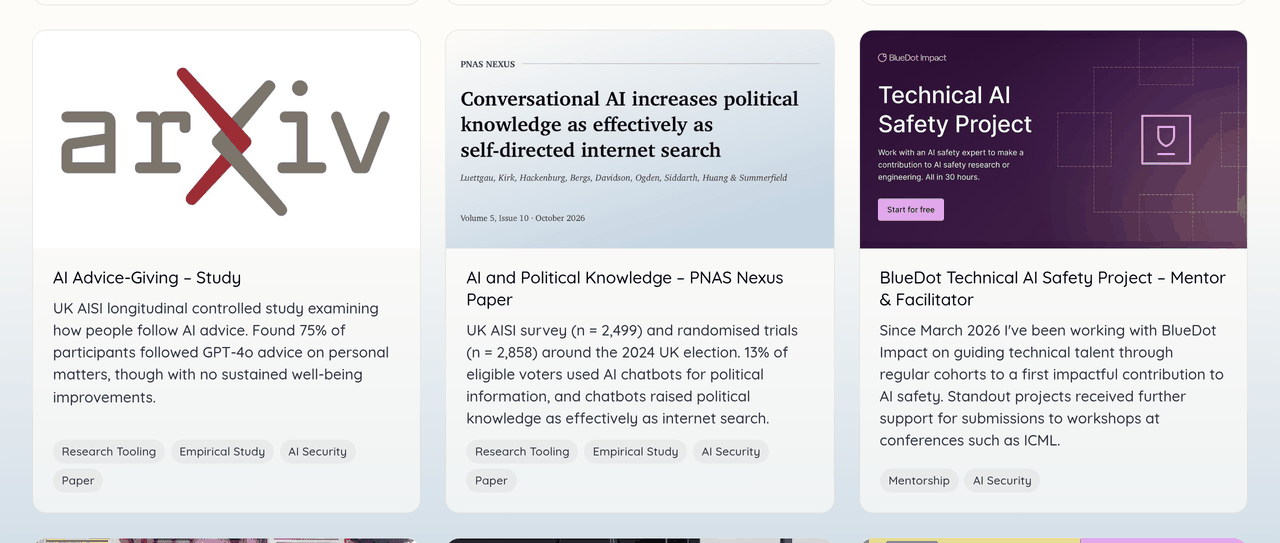
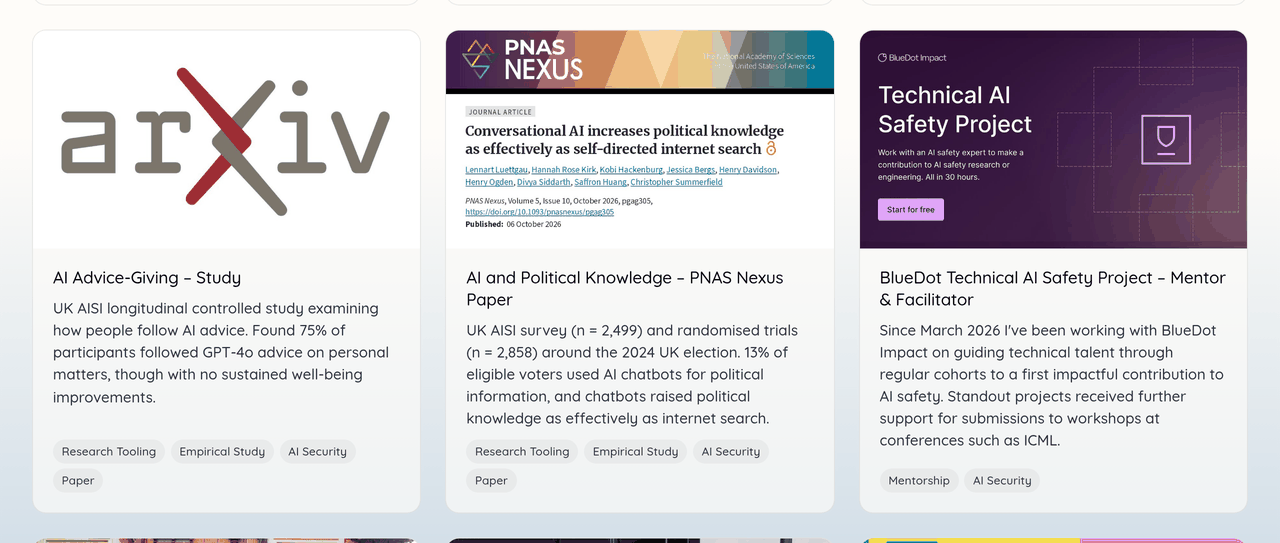
content: restyle the PNAS Nexus tile after the journal's article page (#61)
The title card used the portfolio's own palette and Charter face. It now
mirrors the paper's page on Oxford Academic: the journal banner and logo,
the black navigation strip, then the JOURNAL ARTICLE label, Merriweather
title with the open-access mark, linked author names, citation, DOI and
publication date in Source Sans. The card is 1200x675 so the 16:9 tile
frame no longer crops it.

Changed region(s): [[0.3438, 0.0295, 0.6562, 0.4715], [0.6562, 0.9724, 0.9688, 1.0], [0.0312, 0.9724, 0.2812, 1.0]]

diff --git a/docs/assets/pnas-nexus-tile/make_tile.py b/docs/assets/pnas-nexus-tile/make_tile.py
@@ -1,85 +1,169 @@
 #!/usr/bin/env python3
 """Build the tile for the PNAS Nexus political knowledge paper.
 
-A typographic title card in the site's own palette and Charter face (the
-gradient runs between --color-bg-top and --color-bg-bottom from src/index.css).
-It replaces the generic arXiv logo the tile used while the paper was a preprint.
+The card mimics the paper's page on Oxford Academic: the journal's banner and
+logo across the top, a black navigation strip, then the article header on white
+(JOURNAL ARTICLE label, Merriweather title with the open-access mark, linked
+author names in Source Sans, citation line).
 
-Usage (needs Pillow; FreeType reads the site's woff2 files directly):
+Inputs in this folder, taken from the journal site's header (2026-10-06):
+    pnasnexus-logo.png            journal logo, white wordmark on transparent
+    pnasnexus-banner.png          banner gradient with the triangle facets
+    pnasnexus-banner-overlay.png  slanted panel at the banner's right edge
+
+Merriweather and Source Sans 3 (both SIL OFL) are downloaded from google/fonts
+on first run into ~/.cache/jbergs-portfolio-fonts.
+
+Usage (needs Pillow):
     uv run --no-project --with pillow python docs/assets/pnas-nexus-tile/make_tile.py
 """
+import urllib.request
 from pathlib import Path
 
 from PIL import Image, ImageDraw, ImageFont
 
-ROOT = Path(__file__).resolve().parents[3]
-FONTS = ROOT / 'public' / 'fonts' / 'charter'
+HERE = Path(__file__).resolve().parent
+ROOT = HERE.parents[2]
 OUT = ROOT / 'public' / 'images' / 'pnas-nexus-political-knowledge.jpg'
+FONT_CACHE = Path.home() / '.cache' / 'jbergs-portfolio-fonts'
+FONT_URLS = {
+    'merriweather': 'https://github.com/google/fonts/raw/main/ofl/merriweather/Merriweather%5Bopsz,wdth,wght%5D.ttf',
+    'sourcesans': 'https://github.com/google/fonts/raw/main/ofl/sourcesans3/SourceSans3%5Bwght%5D.ttf',
+    'sourcesans-italic': 'https://github.com/google/fonts/raw/main/ofl/sourcesans3/SourceSans3-Italic%5Bwght%5D.ttf',
+}
 
-W, H = 1200, 630
-PAD = 80
-BG_TOP = (0xFE, 0xFC, 0xF9)
-BG_BOTTOM = (0xC6, 0xD6, 0xE3)
-INK = (0x0A, 0x0A, 0x0A)
-INK_SOFT = (0x2C, 0x31, 0x40)
-INK_MUTE = (0x6B, 0x71, 0x84)
+W, H = 1200, 675   # the tile frame is 16:9, so nothing is cropped
+PAD = 60
+BANNER_H = 180
+NAV_H = 16
+
+INK = (0x2A, 0x2A, 0x2A)
+LINK = (0x00, 0x6F, 0xB7)
+CHIP_BG = (0xE4, 0xE4, 0xE4)
+OPEN_ACCESS = (0xF6, 0x82, 0x12)
 
 TITLE = 'Conversational AI increases political knowledge as effectively as self-directed internet search'
-AUTHORS = 'Luettgau, Kirk, Hackenburg, Bergs, Davidson, Ogden, Siddarth, Huang & Summerfield'
-KICKER = 'PNAS NEXUS'
-FOOTER = 'Volume 5, Issue 10 · October 2026'
+AUTHORS = ['Lennart Luettgau', 'Hannah Rose Kirk', 'Kobi Hackenburg', 'Jessica Bergs', 'Henry Davidson',
+           'Henry Ogden', 'Divya Siddarth', 'Saffron Huang', 'Christopher Summerfield']
+JOURNAL = 'PNAS Nexus'
+CITATION = ', Volume 5, Issue 10, October 2026, pgag305,'
+DOI = 'https://doi.org/10.1093/pnasnexus/pgag305'
+PUBLISHED = '06 October 2026'
 
 
-def font(name: str, size: int) -> ImageFont.FreeTypeFont:
-    return ImageFont.truetype(str(FONTS / f'charter_{name}.woff2'), size)
+def font(name: str, size: int, weight: int, opsz: int | None = None) -> ImageFont.FreeTypeFont:
+    path = FONT_CACHE / f'{name}.ttf'
+    if not path.exists():
+        FONT_CACHE.mkdir(parents=True, exist_ok=True)
+        urllib.request.urlretrieve(FONT_URLS[name], path)
+    f = ImageFont.truetype(str(path), size)
+    axes = {b'Weight': weight, b'Optical size': opsz or size, b'Width': 100}
+    f.set_variation_by_axes([axes[a['name']] for a in f.get_variation_axes()])
+    return f
 
 
-def wrap(draw: ImageDraw.ImageDraw, text: str, f: ImageFont.FreeTypeFont, width: int) -> list[str]:
-    lines, line = [], ''
-    for word in text.split():
-        trial = f'{line} {word}'.strip()
-        if draw.textlength(trial, font=f) <= width:
-            line = trial
-        else:
+def wrap(draw: ImageDraw.ImageDraw, words: list[str], f: ImageFont.FreeTypeFont, width: int, sep: str = ' ') -> list[list[str]]:
+    lines, line = [], []
+    for word in words:
+        if line and draw.textlength(sep.join(line + [word]), font=f) > width:
             lines.append(line)
-            line = word
+            line = []
+        line.append(word)
     lines.append(line)
     return lines
 
 
+def banner(img: Image.Image, draw: ImageDraw.ImageDraw) -> None:
+    art = Image.open(HERE / 'pnasnexus-banner.png').convert('RGBA')
+    sx, sy = W / art.width, BANNER_H / art.height   # the overlay gets the same stretch as the banner
+    art = art.resize((W, BANNER_H), Image.LANCZOS)
+    img.paste(art, (0, 0), art)
+    overlay = Image.open(HERE / 'pnasnexus-banner-overlay.png').convert('RGBA')
+    overlay = overlay.resize((round(overlay.width * sx), round(overlay.height * sy)), Image.LANCZOS)
+    img.paste(overlay, (W - overlay.width, 0), overlay)
+
+    logo = Image.open(HERE / 'pnasnexus-logo.png').convert('RGBA')
+    logo_h = 124
+    logo = logo.resize((round(logo.width * logo_h / logo.height), logo_h), Image.LANCZOS)
+    img.paste(logo, (PAD - 10, (BANNER_H - logo_h) // 2), logo)
+
+    nas = font('sourcesans', 25, 300)
+    for i, line in enumerate(['The National Academy of Sciences', 'of the United States of America']):
+        draw.text((W - PAD - draw.textlength(line, font=nas), 62 + i * 30), line, font=nas, fill='white')
+
+    draw.rectangle([0, BANNER_H, W, BANNER_H + NAV_H], fill='black')
+
+
+def open_access_mark(draw: ImageDraw.ImageDraw, x: float, y: float, size: int) -> None:
+    """The orange open padlock that follows open-access titles."""
+    stroke = max(3, size // 9)
+    body_r = size * 0.32
+    cx, cy = x + size * 0.36, y + size * 0.66
+    draw.ellipse([cx - body_r, cy - body_r, cx + body_r, cy + body_r], outline=OPEN_ACCESS, width=stroke)
+    draw.ellipse([cx - stroke * 0.7, cy - stroke * 0.7, cx + stroke * 0.7, cy + stroke * 0.7], fill=OPEN_ACCESS)
+    # Shackle: an arch opening upward from the right of the body, swung open.
+    sw = size * 0.44
+    top = y + size * 0.02
+    draw.arc([cx - sw / 2, top, cx + sw / 2, top + sw], 180, 360, fill=OPEN_ACCESS, width=stroke)
+    draw.line([(cx + sw / 2 - stroke / 2, top + sw / 2), (cx + sw / 2 - stroke / 2, cy - body_r + 2)], fill=OPEN_ACCESS, width=stroke)
+
+
 def main() -> None:
-    img = Image.new('RGB', (W, H))
+    img = Image.new('RGB', (W, H), 'white')
     draw = ImageDraw.Draw(img)
+    banner(img, draw)
 
-    # Diagonal gradient, warm paper top left to the site's pale blue bottom right.
-    for y in range(H):
-        for x in range(0, W, 4):
-            t = min(1.0, max(0.0, (x / W) * 0.45 + (y / H) * 0.75))
-            c = tuple(round(a + (b - a) * t) for a, b in zip(BG_TOP, BG_BOTTOM))
-            draw.line([(x, y), (x + 3, y)], fill=c)
+    y = BANNER_H + NAV_H + 38
+    chip = font('sourcesans', 21, 400)
+    label = 'JOURNAL ARTICLE'
+    tracking = 2.2
+    label_w = sum(draw.textlength(c, font=chip) + tracking for c in label) - tracking
+    draw.rectangle([PAD, y, PAD + label_w + 22, y + 32], fill=CHIP_BG)
+    cx = PAD + 11
+    for c in label:
+        draw.text((cx, y + 4), c, font=chip, fill=INK)
+        cx += draw.textlength(c, font=chip) + tracking
 
-    kicker = font('bold', 26)
-    draw.text((PAD, PAD), KICKER, font=kicker, fill=INK_SOFT)
-    kicker_w = draw.textlength(KICKER, font=kicker)
-    draw.line([(PAD + kicker_w + 24, PAD + 15), (W - PAD, PAD + 15)], fill=INK_MUTE, width=1)
+    title = font('merriweather', 42, 700, opsz=24)
+    y += 50
+    lines = wrap(draw, TITLE.split(), title, W - 2 * PAD - 40)
+    for line in lines:
+        draw.text((PAD, y), ' '.join(line), font=title, fill=INK)
+        last_w = draw.textlength(' '.join(line), font=title)
+        y += 56
+    open_access_mark(draw, PAD + last_w + 14, y - 56 + 2, 44)
 
-    title = font('bold', 58)
-    y = PAD + 80
-    for line in wrap(draw, TITLE, title, W - 2 * PAD):
-        draw.text((PAD, y), line, font=title, fill=INK)
-        y += 74
+    authors = font('sourcesans', 27, 400)
+    y += 16
+    names = [n + (',' if i < len(AUTHORS) - 1 else '') for i, n in enumerate(AUTHORS)]
+    for line in wrap(draw, names, authors, W - 2 * PAD):
+        x = PAD
+        for word in line:
+            name = word.rstrip(',')
+            w = draw.textlength(name, font=authors)
+            draw.text((x, y), name, font=authors, fill=LINK)
+            draw.line([(x, y + 31), (x + w, y + 31)], fill=LINK, width=2)
+            x += w
+            if word.endswith(','):
+                draw.text((x, y), ',', font=authors, fill=INK)
+                x += draw.textlength(', ', font=authors)
+        y += 38
 
-    authors = font('italic', 26)
-    y += 26
-    for line in wrap(draw, AUTHORS, authors, W - 2 * PAD):
-        draw.text((PAD, y), line, font=authors, fill=INK_SOFT)
-        y += 36
-
-    footer = font('regular', 24)
-    draw.text((PAD, H - PAD - 24), FOOTER, font=footer, fill=INK_SOFT)
+    y += 22
+    italic = font('sourcesans-italic', 25, 400)
+    regular = font('sourcesans', 25, 400)
+    draw.text((PAD, y), JOURNAL, font=italic, fill=INK)
+    draw.text((PAD + draw.textlength(JOURNAL, font=italic), y), CITATION, font=regular, fill=INK)
+    y += 34
+    draw.text((PAD, y), DOI, font=regular, fill=LINK)
+    draw.line([(PAD, y + 29), (PAD + draw.textlength(DOI, font=regular), y + 29)], fill=LINK, width=2)
+    y += 38
+    bold = font('sourcesans', 25, 700)
+    draw.text((PAD, y), 'Published:', font=bold, fill=INK)
+    draw.text((PAD + draw.textlength('Published:  ', font=bold), y), PUBLISHED, font=regular, fill=INK)
 
     img.save(OUT, 'JPEG', quality=88, optimize=True, progressive=True)
-    print(f'{OUT.relative_to(ROOT)}: {OUT.stat().st_size // 1024} KB')
+    print(f'{OUT.relative_to(ROOT)}: {OUT.stat().st_size // 1024} KB, content ends at y={y + 30}')
 
 
 if __name__ == '__main__':
